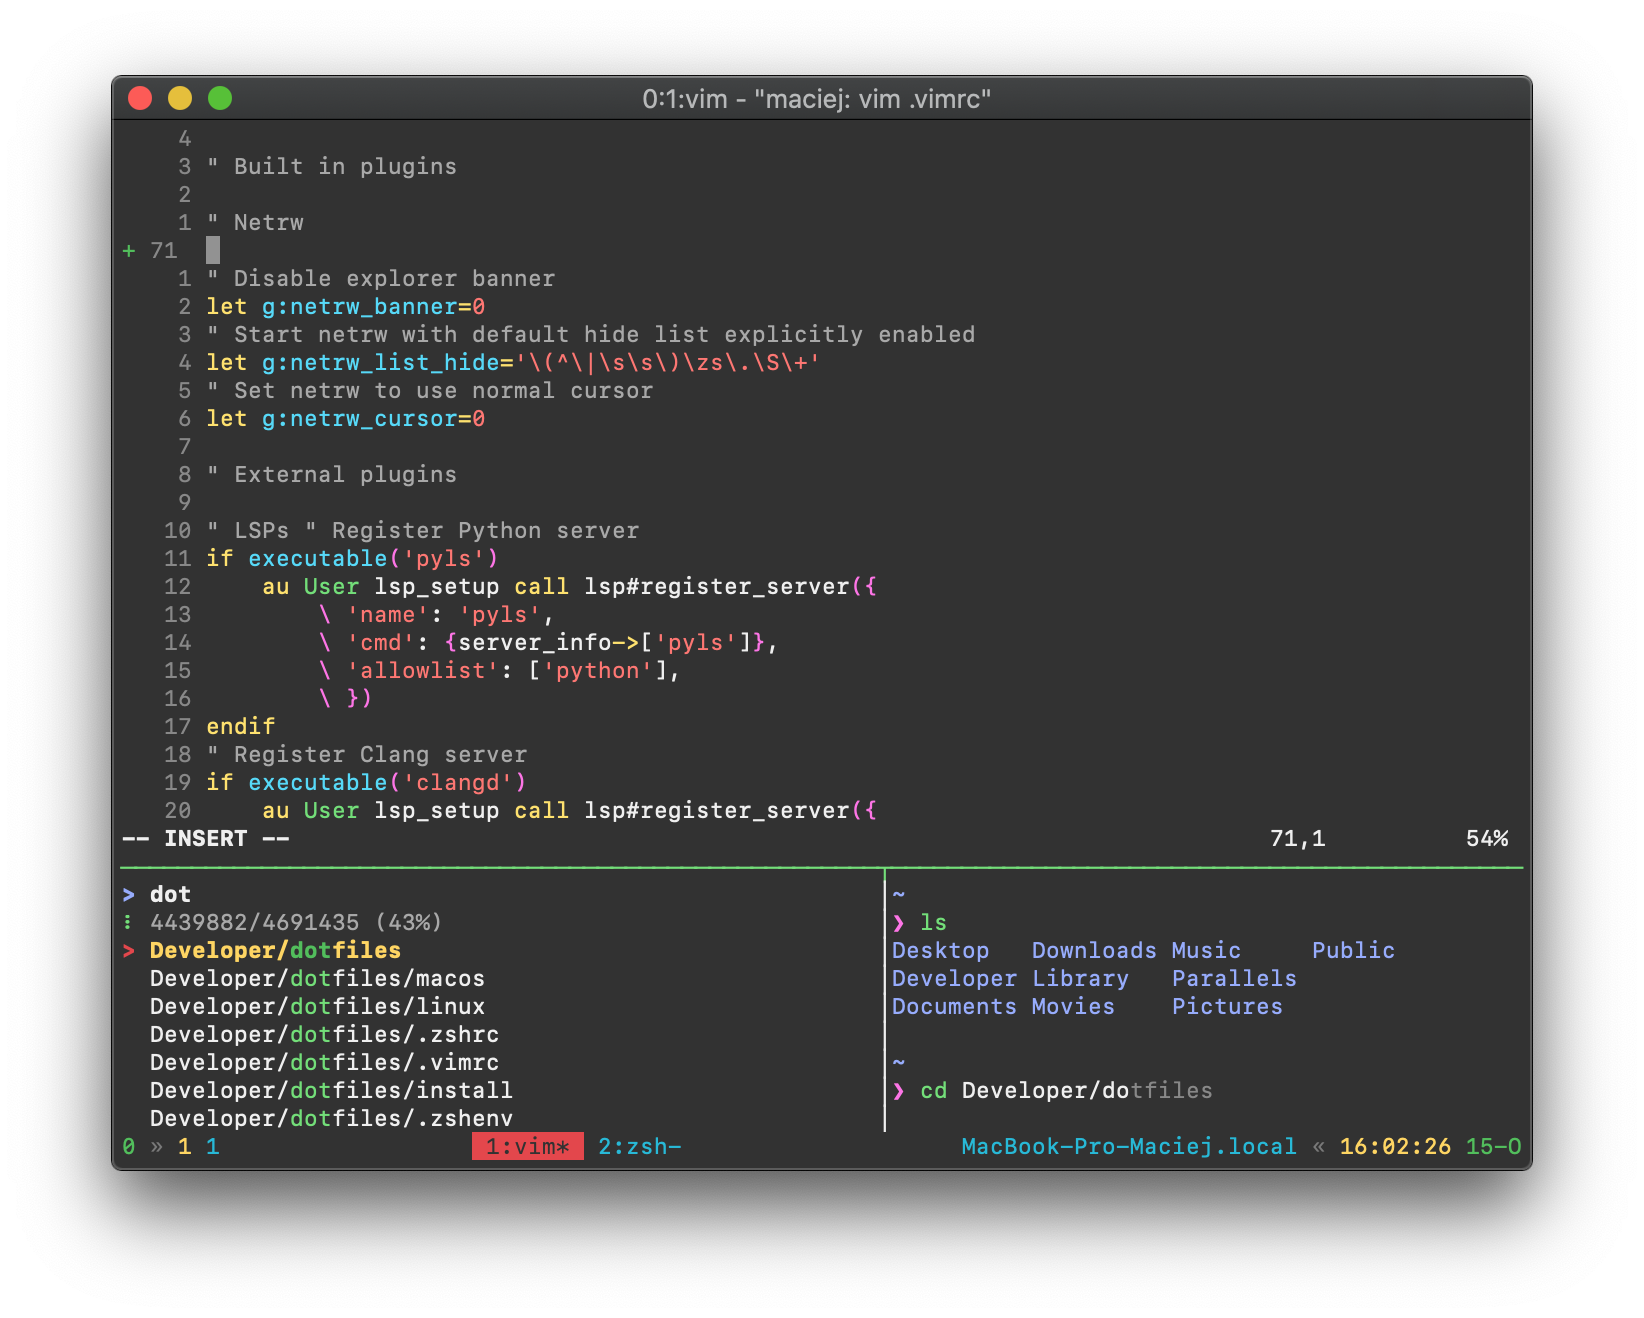
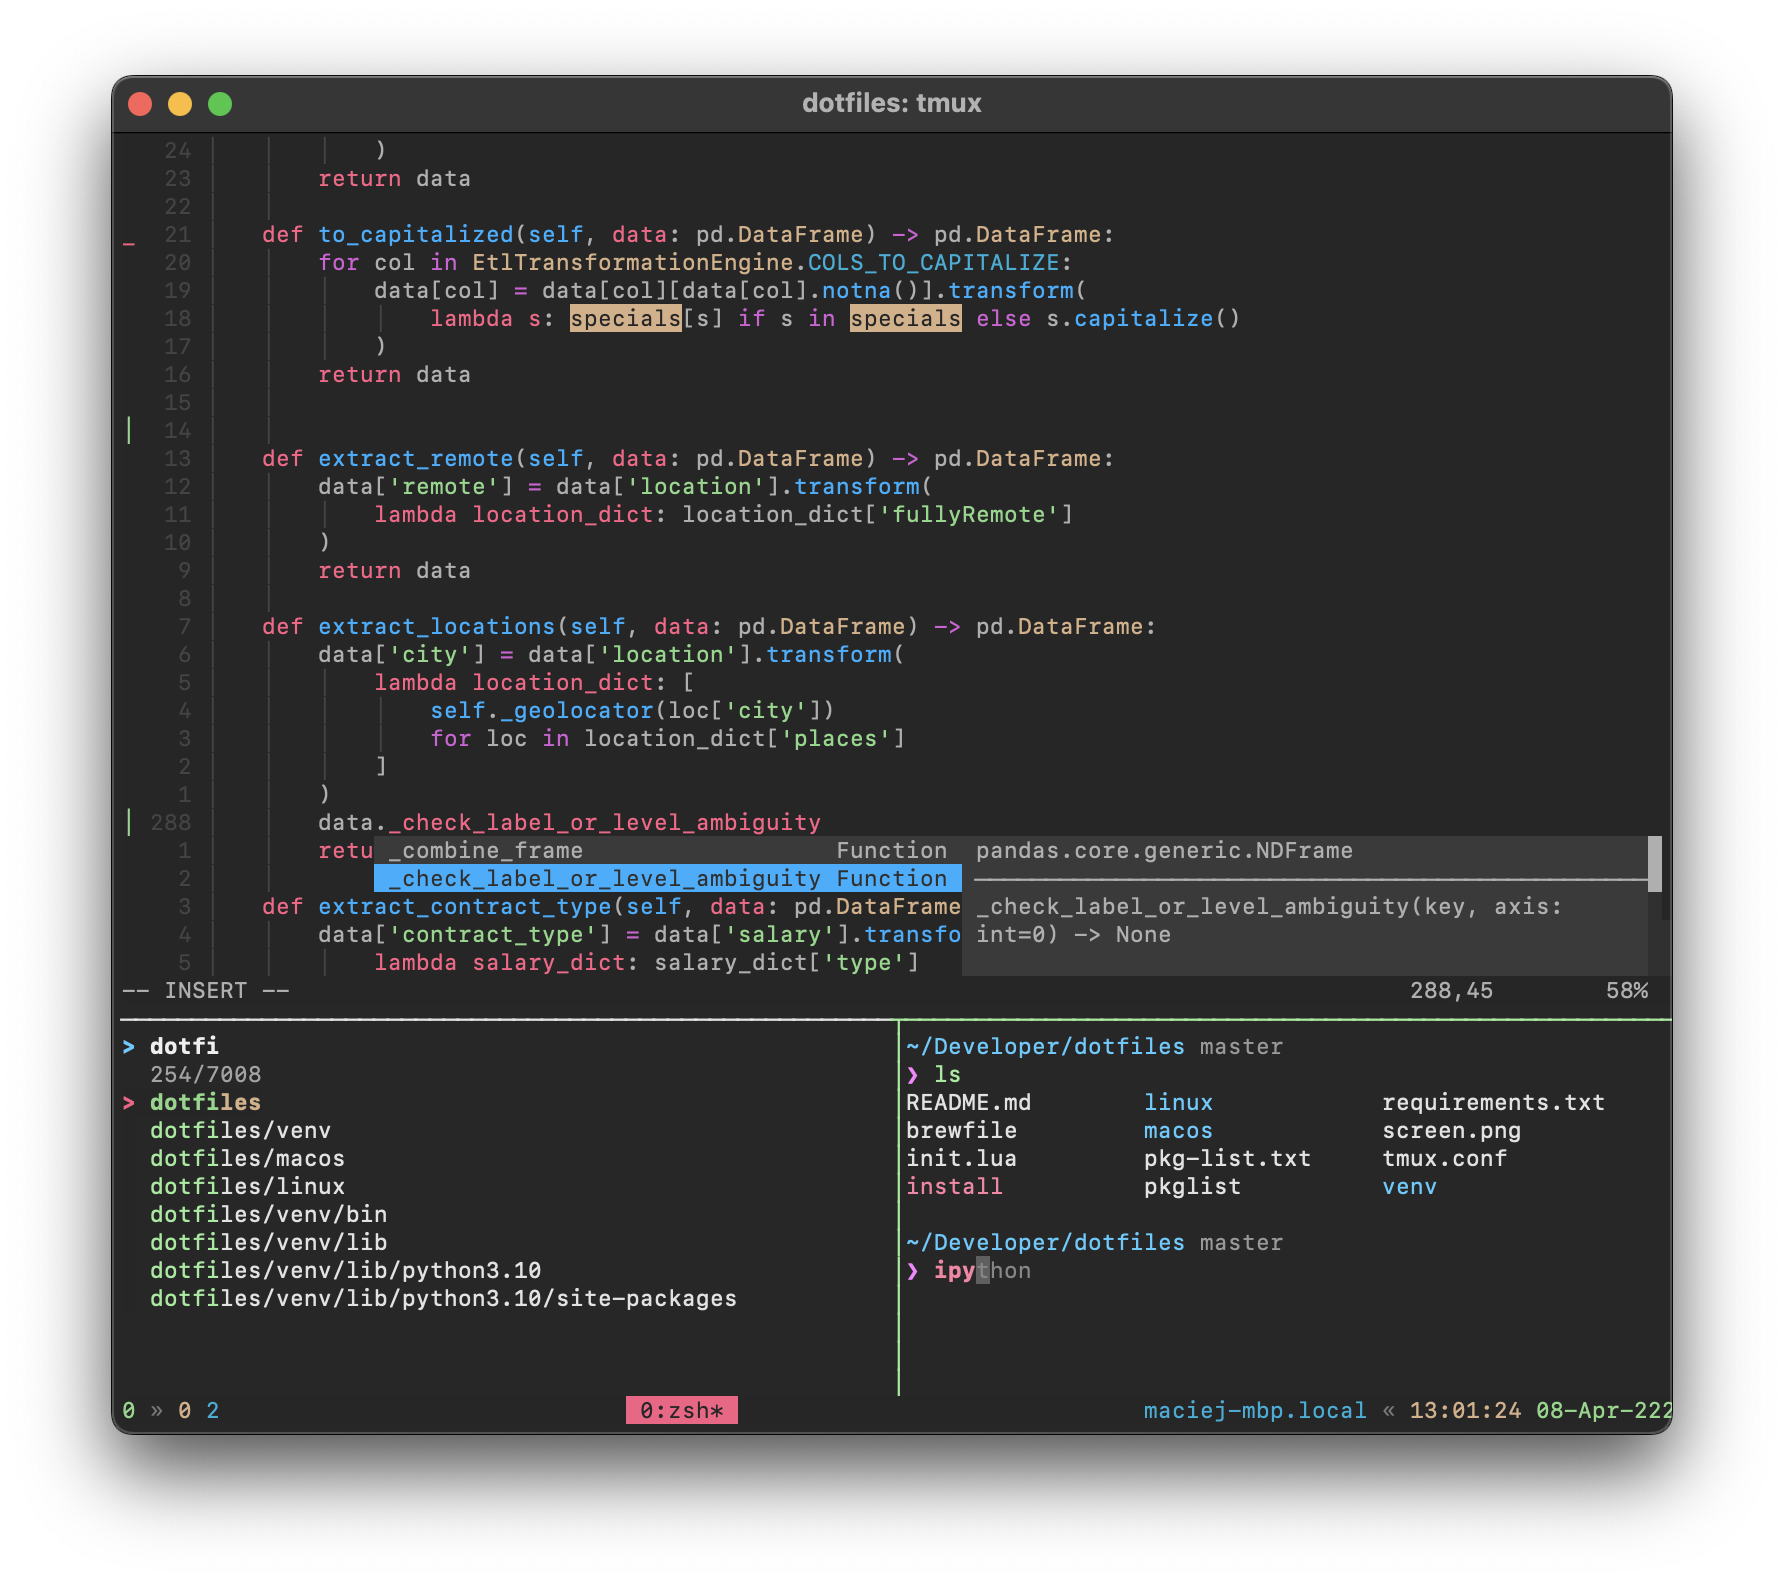
Update README and demo screenshot

diff --git a/README.md b/README.md
@@ -1,17 +1,31 @@
 # My dotfiles
-My config with a simple installation script.
-Works on MacOS and Arch Linux.
-Should be easily portable to all Linux distros (and maybe BSDs).
+
+My config with a simple installation script. Works on MacOS, Arch Linux, and
+Debian based distros. Should be easily portable to all Linux distros (and maybe
+BSDs).
 
 ![demo_screenshot](https://github.com/maciejzj/dotfiles/blob/master/screen.png?raw=true)
 
-Focused on zsh, tmux and vim.
-Comes with features like zsh syntax coloring, autosuggestion, vim autocompletion
-with many LSP options, nice tmux bindings, theming, fzf integration and much
-more.
-Crafted to make terminal apps use 16 ANSI colors, so the theme stays consistent
-and is easy to modify from one place.
-Includes some minimalist xorg programs and config.
+Focused around zsh, tmux and (neo)vim. Comes with features like zsh syntax
+coloring, autosuggestion, neovim treesitter, built-in LSP support, treesitter,
+telescope, nice tmux bindings, theming, fzf integration and much more. Crafted
+to make terminal apps use 16 ANSI colors, so the theme stays consistent and is
+easy to modify from one place. Includes some minimalist xorg programs and
+config.
+
+Neovim config is written in Lua.
+
+# Installation
+
+Run: `./install` to deploy the dotfiles.
+
+> **NOTICE:** The installation script isn't updated on a regular basis, so use
+> it with caution.
 
 On Linux it is best to use the dotfiles with my 
 [suckless builds](https://github.com/maciejzj/suckless-builds).
+
+## Fine-tuning
+
+Some config pieces may require minimal fixing, e.g. readjust some lines in
+`config.tmux` to make it work with `xclip`.
